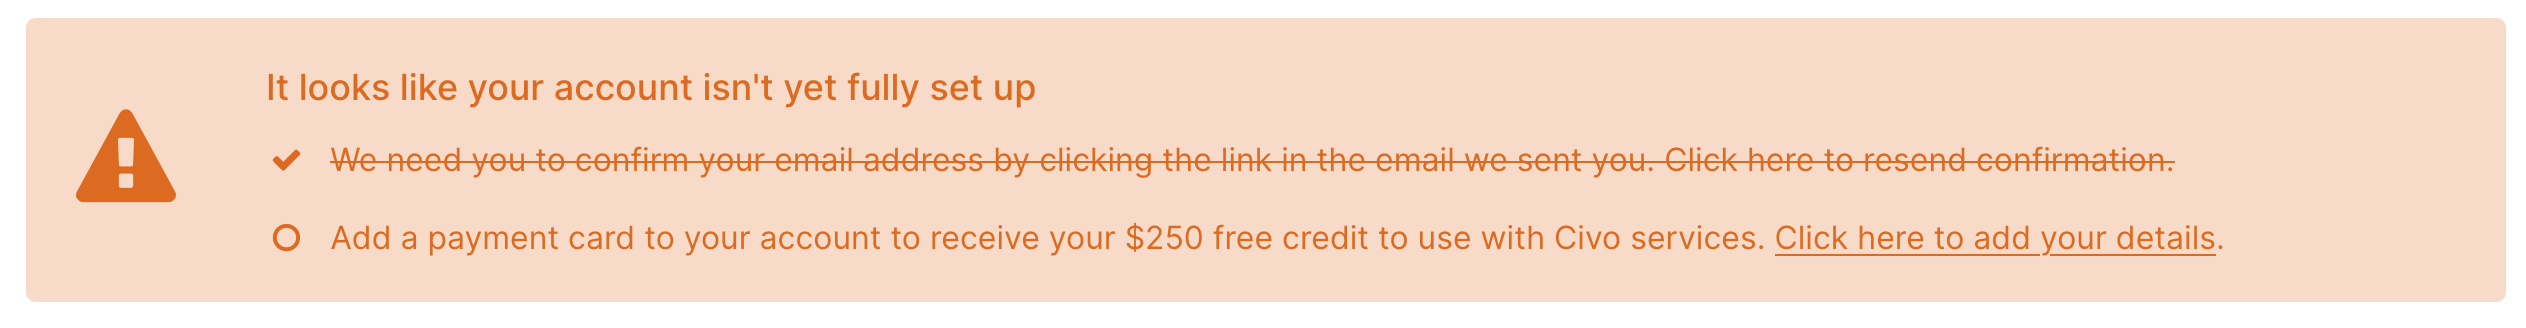
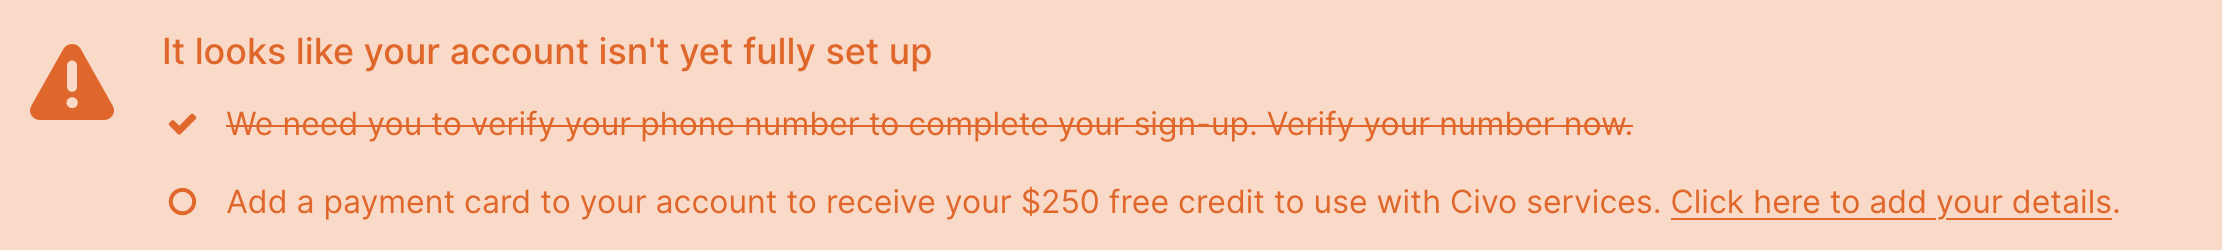
Add phone verification to docs

Changed region(s): [[0.0, 0.0, 1.0, 1.0]]

diff --git a/content/docs/account/signing-up.md b/content/docs/account/signing-up.md
@@ -11,6 +11,24 @@ description: Learn how to get started with Civo. Find out how to access & manage
 
 When you [sign up](https://dashboard.civo.com/signup) to Civo, the system will require you to confirm your email address to gain access. Once you have clicked the email confirmation link, you will be able to use your selected username and password to log in to your account.
 
+## Verifying your phone number
+
+For account security and integrity, Civo requires you to verify your phone number. Before you are able to add a payment method or launch resources in your account, you will need to complete this process.
+
+If you see the "We need you to verify your phone number to complete your sign-up" banner, click the "Verify your numer now" link to access the service.
+
+![Phone verification input](./images/phone-verification-input.png)
+
+On this screen, choose the country your phone is registered to, and enter your mobile/cell phone number. Once complete, click "Send verification code" to receive a message with a one-time code.
+
+You will be prompted to enter the code you received as a text message on the following screen:
+
+![Phone verification code entry](./images/code-entry.png)
+
+:::note
+Certain countries are not supported by the phone verification. If you see a message saying "Unfortunately we are unable to verify phone numbers in your country" this means we are unable to offer Civo services to you.
+:::
+
 ## Adding a payment method
 
 Civo services are billable. If you do not add a valid payment type to your account, you will see a banner stating you need to do so, and will not be able to create Kubernetes clusters, virtual machine instances, or the like.
